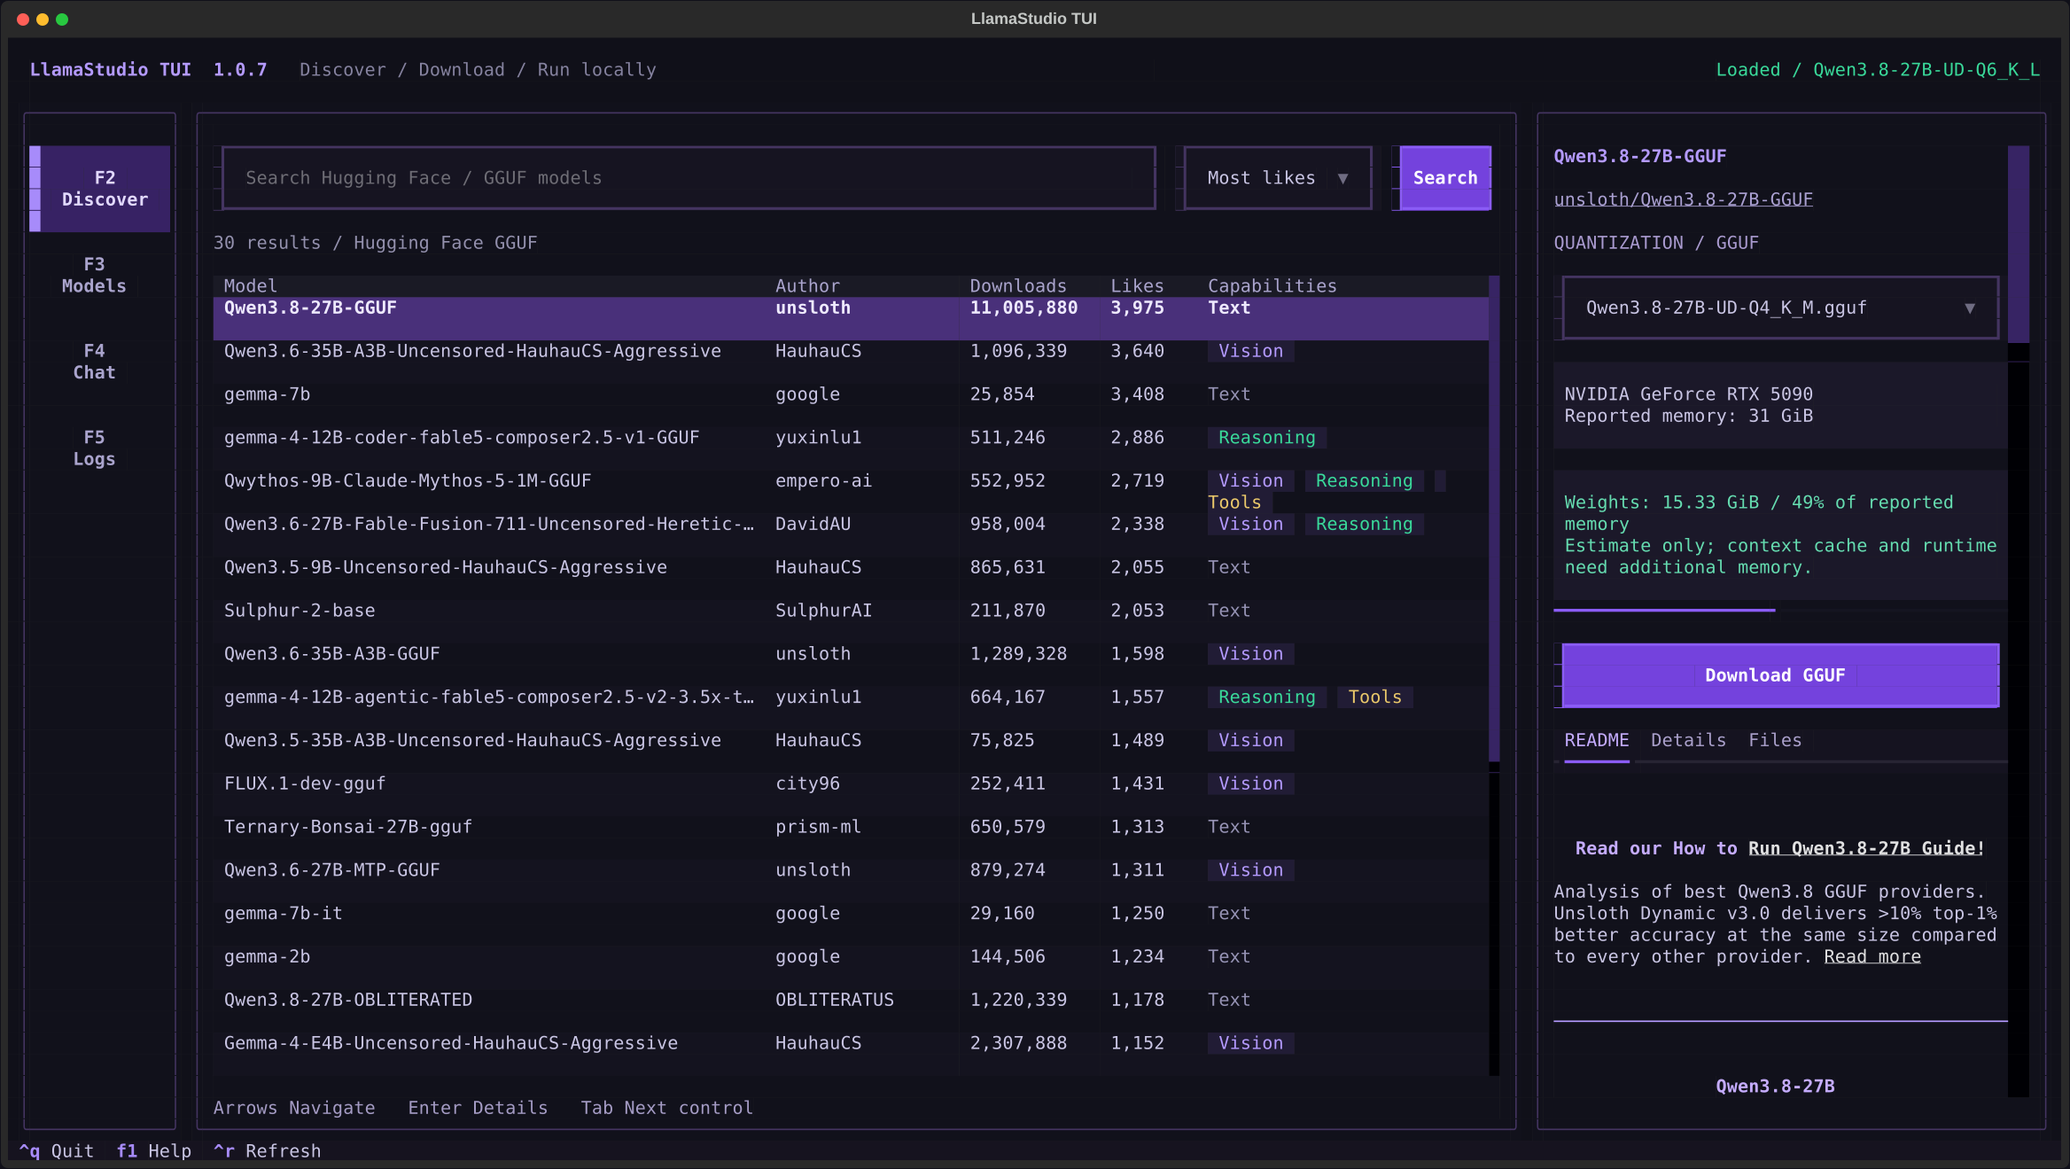
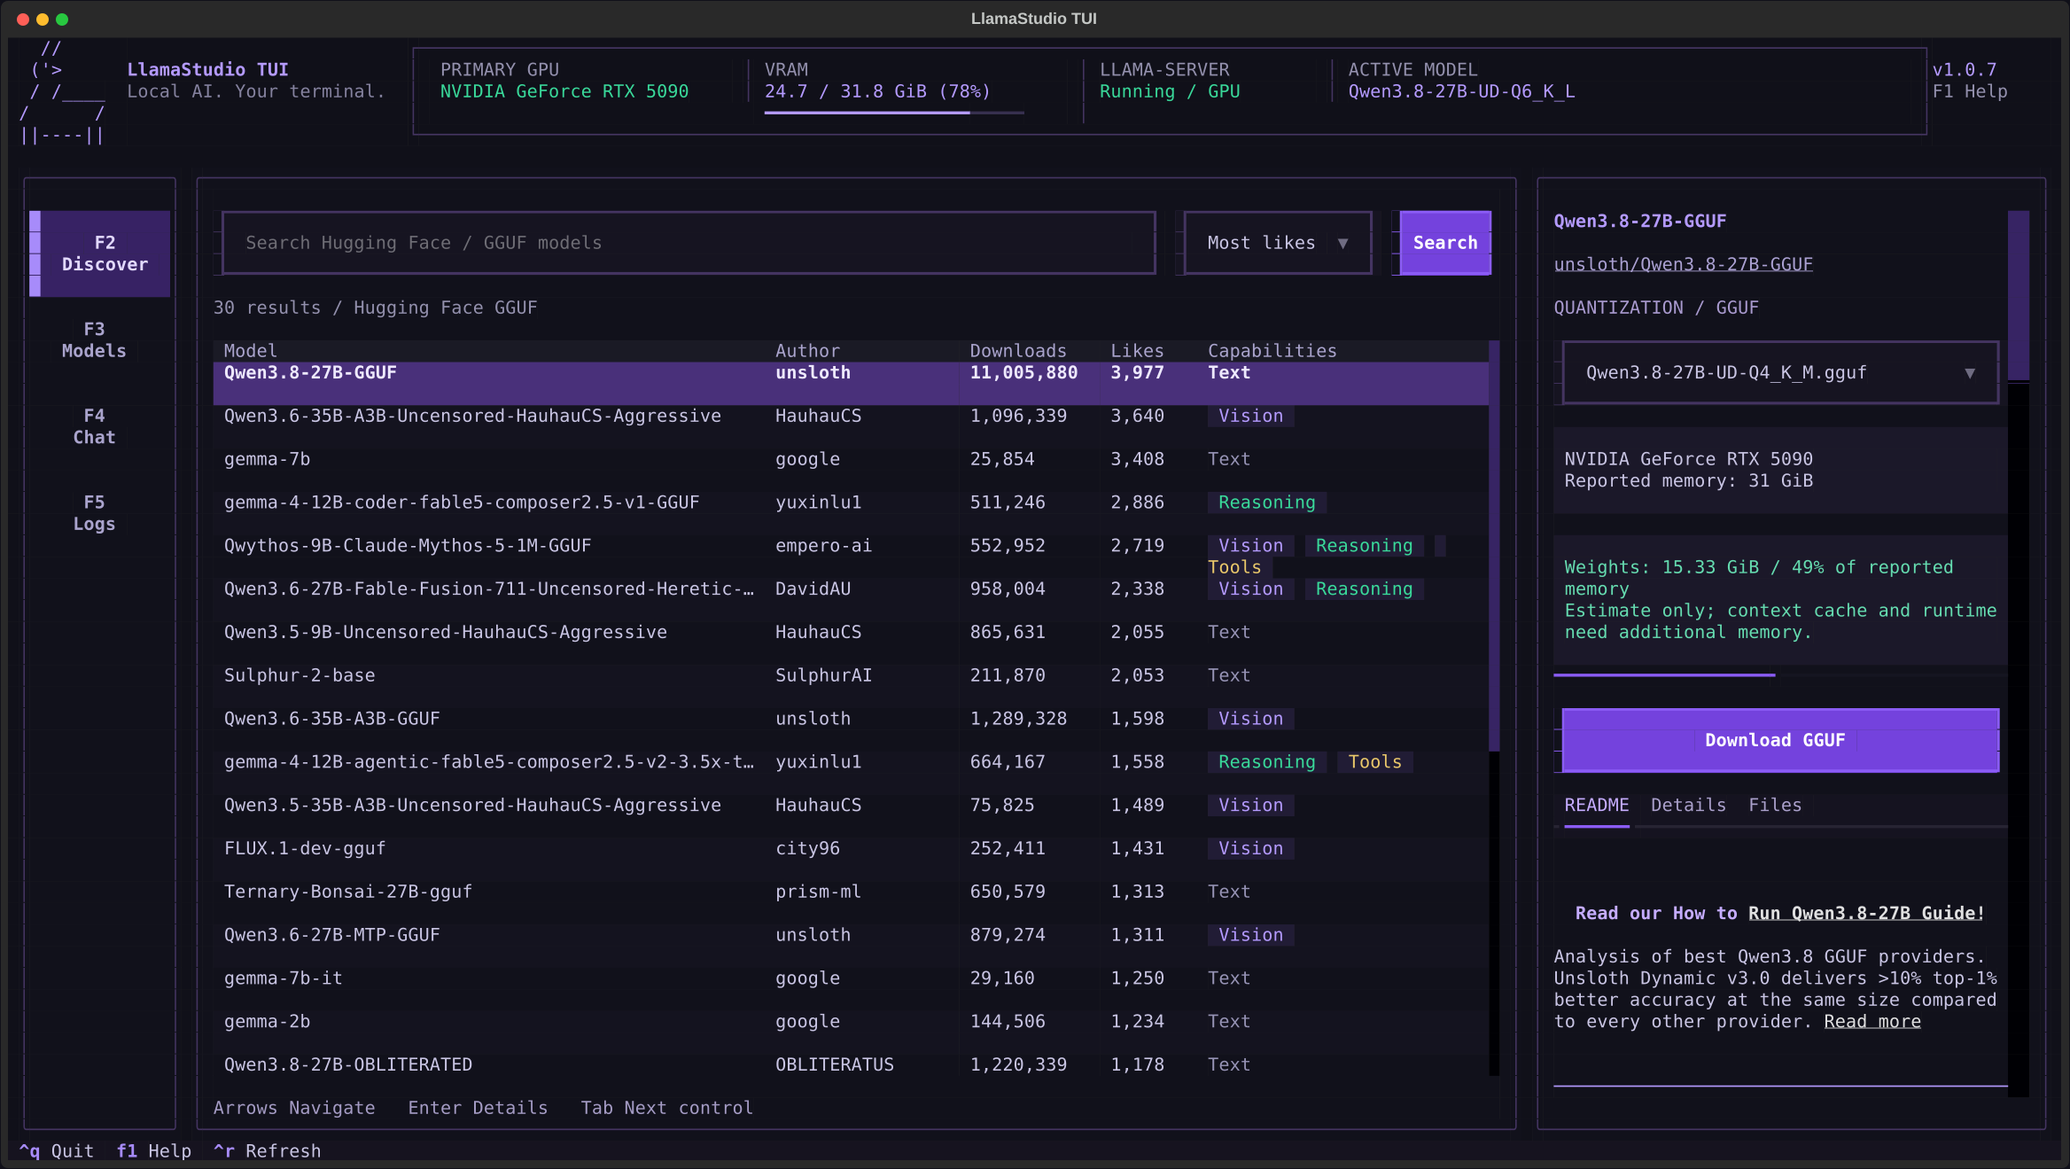
Add responsive llama status header with live GPU and model information

diff --git a/app/tui/header.py b/app/tui/header.py
@@ -1,0 +1,121 @@
+"""Responsive terminal branding and truthful, device-wide GPU telemetry."""
+
+from __future__ import annotations
+
+from importlib.metadata import version
+from math import isfinite
+
+from rich.text import Text
+from textual.app import ComposeResult
+from textual.containers import Horizontal, Vertical
+from textual.widgets import Static
+
+PURPLE = "#b49aff"
+GREEN = "#39d99a"
+MUTED = "#9390ad"
+YELLOW = "#eac86a"
+
+# Plain ASCII: no emoji-width surprises or Nerd Font dependency over SSH.
+LLAMA = "  //\n ('>\n / /____\n/      /\n||----||"
+
+
+def measurement(value: object) -> float | None:
+    if isinstance(value, (int, float)) and not isinstance(value, bool) and isfinite(value):
+        return float(value)
+    return None
+
+
+class StudioHeader(Vertical):
+    def compose(self) -> ComposeResult:
+        with Horizontal(id="header-full"):
+            with Horizontal(id="identity"):
+                yield Static(Text(LLAMA, style=PURPLE), id="llama")
+                with Vertical(id="wordmark"):
+                    yield Static("LlamaStudio TUI", id="brand")
+                    yield Static("Local AI. Your terminal.", id="tagline")
+            with Horizontal(id="telemetry"):
+                with Vertical(id="gpu-stat", classes="header-stat"):
+                    yield Static("PRIMARY GPU", classes="stat-label")
+                    yield Static("Detecting...", id="gpu-name")
+                with Vertical(id="memory-stat", classes="header-stat"):
+                    yield Static("VRAM", classes="stat-label", id="memory-label")
+                    yield Static("Awaiting telemetry", id="memory-value")
+                    yield Static("", id="memory-bar")
+                with Vertical(id="server-stat", classes="header-stat"):
+                    yield Static("LLAMA-SERVER", classes="stat-label")
+                    yield Static("Connecting...", id="connection")
+                with Vertical(id="model-stat", classes="header-stat"):
+                    yield Static("ACTIVE MODEL", classes="stat-label")
+                    yield Static("Connecting...", id="active-model")
+            with Vertical(id="header-meta"):
+                yield Static(f"v{version('llamastudio')}", id="header-version")
+                yield Static("F1 Help", id="header-help")
+        yield Static("LlamaStudio TUI / Connecting...", id="header-summary")
+
+    def update_status(self, status: dict, gpu: dict, *, connected: bool = True) -> None:
+        name = str(gpu.get("name") or "Unavailable")
+        total = measurement(gpu.get("total_vram"))
+        used = measurement(gpu.get("used_vram"))
+        # Older servers only expose capacity. Never infer usage from model size.
+        if "total_vram" not in gpu:
+            total = measurement(gpu.get("vram"))
+        if total is not None and total <= 0:
+            total = None
+        if total is None or used is None or not 0 <= used <= total:
+            used = None
+        unified = gpu.get("memory_kind") == "unified"
+        memory_label = "UNIFIED MEMORY" if unified else "VRAM"
+        if total is not None and used is not None:
+            fraction = used / total
+            memory = f"{used:.1f} / {total:.1f} GiB ({fraction:.0%})"
+            filled = round(fraction * 24)
+            bar = Text("━" * filled, style=PURPLE)
+            bar.append("━" * (24 - filled), style="#37304f")
+        else:
+            memory = f"{total:.1f} GiB / usage N/A" if total is not None else "Unavailable"
+            bar = Text("")
+
+        params = status.get("current_params") or {}
+        cpu = params.get("cpu_mode") or params.get("gpu_layers") == 0
+        mode = "CPU" if cpu else "GPU" if params.get("gpu_layers") is not None else ""
+        if not connected:
+            state, color, model = "Backend unavailable", YELLOW, "Unavailable"
+        elif status.get("is_loading"):
+            state, color = "Loading...", YELLOW
+            model = str(status.get("current_model_name") or "Loading model...")
+        elif status.get("running"):
+            state, color = "Running" + (f" / {mode}" if mode else ""), GREEN
+            model = str(status.get("current_model_name") or "Loaded model")
+        else:
+            state, color, model = "Stopped", MUTED, "No model loaded"
+
+        self.query_one("#gpu-name", Static).update(Text(name, style=GREEN if gpu else MUTED))
+        self.query_one("#gpu-name").tooltip = f"Primary detected device: {name}"
+        self.query_one("#memory-label", Static).update(memory_label)
+        self.query_one("#memory-value", Static).update(Text(memory, style=PURPLE))
+        self.query_one("#memory-bar", Static).update(bar)
+        self.query_one("#memory-stat").tooltip = (
+            "Shared system memory capacity; GPU usage is not reported."
+            if unified
+            else "Device-wide memory usage, including other applications. Refreshed every 3 seconds."
+        )
+        self.query_one("#connection", Static).update(Text(state, style=color))
+        self.query_one("#active-model", Static).update(Text(model, style=PURPLE))
+        self.query_one("#active-model").tooltip = model
+
+        # Compact terminals keep the model, device, memory, and server state,
+        # without the art or card borders taking away working space.
+        summary = Text("LlamaStudio TUI", style=f"bold {PURPLE}")
+        summary.append("  /  ", style=MUTED)
+        summary.append(model, style=PURPLE)
+        summary.truncate(max(1, self.size.width), overflow="ellipsis")
+        summary.append("\n")
+        short_name = name.removeprefix("NVIDIA GeForce ")
+        device = Text(short_name, style=GREEN if gpu else MUTED)
+        device.truncate(
+            max(8, self.size.width - len(memory) - len(state) - 12), overflow="ellipsis"
+        )
+        summary.append_text(device)
+        summary.append(f"  |  {'RAM' if unified else 'VRAM'} {memory}  |  ", style=MUTED)
+        summary.append(state, style=color)
+        self.query_one("#header-summary", Static).update(summary)

diff --git a/app/tui/application.py b/app/tui/application.py
@@ -3,8 +3,6 @@
 from __future__ import annotations
 
 import asyncio
-import time
-from importlib.metadata import version
 from typing import ClassVar
 from urllib.parse import urljoin, urlparse
 
@@ -14,11 +12,12 @@ from textual.app import App, ComposeResult
 from textual.binding import Binding
 from textual.containers import Horizontal, Vertical
 from textual.theme import Theme
-from textual.widgets import Button, ContentSwitcher, Footer, Label, Markdown, ProgressBar, Static
+from textual.widgets import Button, ContentSwitcher, Footer, Markdown, ProgressBar, Static
 
 from .chat import ChatView
 from .client import APIError, StudioClient
 from .discover import DiscoverView
+from .header import StudioHeader
 from .logs import LogsView
 from .models import ModelsView
 from .widgets import Confirm, Help, StudioView
@@ -51,7 +50,7 @@ class StudioApp(App[None]):
         self.gpu: dict = {}
         self.download_active = False
         self._polling = False
-        self._gpu_updated = 0.0
+        self.connected = False
         self._last_download_state = "idle"
         self._views: dict[str, StudioView] = {}
         self.register_theme(
@@ -73,10 +72,7 @@ class StudioApp(App[None]):
         self.theme = "llamastudio"
 
     def compose(self) -> ComposeResult:
-        with Horizontal(id="masthead"):
-            yield Label(f"LlamaStudio TUI  {version('llamastudio')}", id="brand")
-            yield Static("Discover / Download / Run locally", id="tagline")
-            yield Static("Connecting...", id="connection")
+        yield StudioHeader(id="masthead")
         with Horizontal(id="workspace"):
             with Vertical(id="navigation"):
                 yield Button("F2 Discover", id="nav-discover", classes="nav-button")
@@ -116,19 +112,18 @@ class StudioApp(App[None]):
             return
         self._polling = True
         try:
-            self.server_status = await self.client.get("/api/server/status")
-            name = self.server_status.get("current_model_name")
-            state = (
-                "Loading model..."
-                if self.server_status.get("is_loading")
-                else f"Loaded / {name}"
-                if self.server_status.get("running")
-                else "Online / no model loaded"
-            )
-            self.query_one("#connection", Static).update(Text(state, style="#39d99a"))
-            if time.monotonic() - self._gpu_updated > 30:
+            try:
+                self.server_status = await self.client.get("/api/server/status")
+                self.connected = True
+            except APIError:
+                self.connected = False
+                self.server_status = {}
+                self.gpu = {}
+                return
+            try:
                 self.gpu = await self.client.get("/api/gpu")
-                self._gpu_updated = time.monotonic()
+            except APIError:
+                self.gpu = {}
             data = await self.client.get("/api/models/download/active")
             self.download_active = bool(data.get("active"))
             progress = data.get("progress") or {}
@@ -158,12 +153,12 @@ class StudioApp(App[None]):
                     self.notify("Download cancelled. Partial data is retained for resume.")
             self._last_download_state = state
         except APIError:
-            self.query_one("#connection", Static).update(
-                Text("Backend unavailable / retrying...", style="#eac86a")
-            )
+            # An unavailable downloads endpoint is not an inference-server outage.
+            pass
         finally:
             self._polling = False
-            if self._views:
+            self.update_header()
+            if self.is_running and self._views:
                 self._views["discover"].update_memory()
                 self._views["models"].update_status()
 
@@ -180,10 +175,24 @@ class StudioApp(App[None]):
         self.screen_stack[0].set_class(
             (height if height is not None else self.size.height) < 30, "short"
         )
+        self.query_one(StudioHeader).set_class(
+            (width if width is not None else self.size.width) < 150
+            or (height if height is not None else self.size.height) < 30,
+            "condensed",
+        )
+        self.call_after_refresh(self.update_header)
         for number, name in enumerate(self._views, 2):
             self.query_one(
                 f"#nav-{name}", Button
             ).label = f"F{number}{' ' if compact else chr(10)}{name.title()}"
+
+    def update_header(self) -> None:
+        # A cancelled polling worker can finish while child widgets unmount.
+        if not self.is_running:
+            return
+        self.query_one(StudioHeader).update_status(
+            self.server_status, self.gpu, connected=self.connected
+        )
 
     @on(Button.Pressed, ".nav-button")
     def navigate(self, event: Button.Pressed) -> None:

diff --git a/tests/test_tui.py b/tests/test_tui.py
@@ -45,7 +45,10 @@ class Backend:
             "running": True,
             "current_model": "/models/tiny.gguf",
             "current_model_name": "Tiny Q4_K_M",
+            "current_params": {"gpu_layers": 42, "cpu_mode": False},
         }
+        self.gpu = {"name": "Test GPU", "vram": 24, "total_vram": 24, "used_vram": 6}
+        self.gpu_available = True
         self.progress = {"status": "idle"}
         self.conversations = {
             "saved": {
@@ -75,7 +78,9 @@ class Backend:
         if path == "/api/server/status":
             data = self.status
         elif path == "/api/gpu":
-            data = {"name": "Test GPU", "vram": 24}
+            if not self.gpu_available:
+                return httpx.Response(503, json={"detail": "Telemetry unavailable"})
+            data = self.gpu
         elif path == "/api/models/search":
             data = {
                 "models": [
@@ -377,7 +382,61 @@ class TestTUI(unittest.IsolatedAsyncioTestCase):
             self.assertIn("unavailable", str(self.app.query_one("#connection", Static).render()))
             self.backend.online = True
             await self.app.poll_status()
-            self.assertIn("Loaded", str(self.app.query_one("#connection", Static).render()))
+            self.assertIn("Running", str(self.app.query_one("#connection", Static).render()))
+
+    async def test_header_telemetry_refresh_resize_and_cpu_mode(self):
+        async with self.app.run_test(size=(190, 52)) as pilot:
+            await self.settle(pilot)
+            self.assertTrue(self.app.query_one("#header-full").display)
+            self.assertIn("Test GPU", str(self.app.query_one("#gpu-name", Static).render()))
+            self.assertIn("6.0 / 24.0 GiB (25%)", str(self.app.query_one("#memory-value").render()))
+            self.assertIn("Running / GPU", str(self.app.query_one("#connection").render()))
+            self.assertIn("Tiny Q4_K_M", str(self.app.query_one("#active-model").render()))
+            bar = self.app.query_one("#memory-bar")
+            self.assertGreater(bar.region.height, 0)
+            self.assertLessEqual(
+                bar.region.bottom, self.app.query_one("#telemetry").content_region.bottom
+            )
+            self.backend.gpu["used_vram"] = 12
+            self.backend.status["current_params"]["cpu_mode"] = True
+            await self.app.poll_status()
+            self.assertIn(
+                "12.0 / 24.0 GiB (50%)", str(self.app.query_one("#memory-value").render())
+            )
+            self.assertIn("Running / CPU", str(self.app.query_one("#connection").render()))
+            await pilot.resize_terminal(80, 24)
+            await pilot.pause()
+            self.assertFalse(self.app.query_one("#header-full").display)
+            summary = str(self.app.query_one("#header-summary").render())
+            for label in ("Tiny Q4_K_M", "Test GPU", "50%", "Running / CPU"):
+                self.assertIn(label, summary)
+            self.assertEqual(self.app.query_one("#masthead").region.height, 3)
+            await pilot.resize_terminal(190, 52)
+            await pilot.pause()
+            self.assertTrue(self.app.query_one("#header-full").display)
+
+    async def test_header_loading_stopped_offline_and_unavailable_telemetry(self):
+        async with self.app.run_test(size=(190, 52)) as pilot:
+            await self.settle(pilot)
+            self.backend.gpu = {"name": "Apple M3", "vram": 32, "memory_kind": "unified"}
+            await self.app.poll_status()
+            self.assertIn("UNIFIED", str(self.app.query_one("#memory-label").render()))
+            self.assertIn("usage N/A", str(self.app.query_one("#memory-value").render()))
+            self.backend.gpu_available = False
+            await self.app.poll_status()
+            self.assertIn("Running", str(self.app.query_one("#connection").render()))
+            self.assertIn("Unavailable", str(self.app.query_one("#memory-value").render()))
+            self.backend.status["is_loading"] = True
+            await self.app.poll_status()
+            self.assertIn("Loading", str(self.app.query_one("#connection").render()))
+            self.backend.status.update(is_loading=False, running=False)
+            await self.app.poll_status()
+            self.assertIn("Stopped", str(self.app.query_one("#connection").render()))
+            self.assertIn("No model loaded", str(self.app.query_one("#active-model").render()))
+            self.backend.online = False
+            await self.app.poll_status()
+            self.assertIn("unavailable", str(self.app.query_one("#connection").render()))
+            self.assertIn("Unavailable", str(self.app.query_one("#active-model").render()))
 
     async def test_resize_preserves_model_selection_and_unsaved_settings(self):
         self.backend.models.append({

diff --git a/tests/test_tui_live.py b/tests/test_tui_live.py
@@ -90,3 +90,49 @@ class TestLiveTUI(unittest.IsolatedAsyncioTestCase):
             if previous_id:
                 await client.post(f"/api/chat/switch/{previous_id}")
             await client.close()
+
+
+@unittest.skipUnless(
+    os.environ.get("RUN_TUI_VISUAL") == "1", "Requires a running backend and network access"
+)
+class TestLiveVisualTUI(unittest.IsolatedAsyncioTestCase):
+    """Read-only UI review: live telemetry, open dropdowns, and terminal resizing.
+
+    RUN_TUI_VISUAL=1 python -m pytest tests/test_tui_live.py -k Visual -q
+    Does not load/unload a model or create/switch a conversation.
+    """
+
+    async def test_live_header_and_dropdowns(self):
+        app = StudioApp(API_BASE_URL)
+        async with app.run_test(size=(190, 52)) as pilot:
+            for _ in range(3):
+                await asyncio.wait_for(app.workers.wait_for_complete(), timeout=60)
+                await pilot.pause()
+            self.assertTrue(app.connected)
+            self.assertTrue(app.gpu.get("name"))
+
+            def capture(name):
+                target = check_path_safe(f".runtime/tui/{name}.svg")
+                target.parent.mkdir(parents=True, exist_ok=True)
+                app.save_screenshot(filename=str(target))
+
+            capture("header-live")
+            await pilot.click("#hub-sort")
+            await pilot.pause()
+            overlay = app.query_one("#hub-sort SelectOverlay")
+            text = "\n".join(
+                overlay.render_line(y).text for y in range(overlay.scrollable_content_region.height)
+            )
+            for label in ("Most likes", "Downloads", "Updated"):
+                self.assertIn(label, text)
+            capture("dropdown-live")
+            await pilot.press("escape")
+            await pilot.resize_terminal(120, 36)
+            await pilot.pause()
+            capture("header-medium-live")
+            await pilot.resize_terminal(80, 24)
+            await pilot.pause()
+            capture("header-small-live")
+            await pilot.click("#hub-sort")
+            await pilot.pause()
+            capture("dropdown-small-live")

diff --git a/README.md b/README.md
@@ -254,6 +254,12 @@ load settings, load/eject, and confirmed deletion. Chat supports multiline text,
 saved conversations, streamed Markdown, collapsible reasoning, and tool activity.
 Logs tails the application or inference server, with filtering and follow control.
 
+The header adds a little ASCII llama, the primary GPU, live device-wide VRAM
+usage, inference state (including CPU/GPU mode), and the active model. NVIDIA
+memory usage refreshes every three seconds; unsupported telemetry is shown as
+unavailable, not zero. Apple unified memory is labeled separately. Narrow or
+short terminals use a two-line status summary instead of the full header.
+
 Use F2–F5 to switch sections, Tab/Shift+Tab to move between controls, arrows and
 Enter to select, and F1 for help. In chat, Enter inserts a newline and Ctrl+S sends.
 Ctrl+R refreshes; Ctrl+Q quits. Every workflow also has mouse controls. In terminal
@@ -271,8 +277,8 @@ The backend's filesystem and GPU are the ones shown in the TUI.
 
 This first version handles text chat; media input remains in the web app. Split
 GGUF shards are identified but not offered as individual model downloads: fetch
-the complete set from the linked Hub repository. Memory bars compare GGUF weight
-bytes with reported GPU/unified memory, **not** guaranteed load capacity; context
+the complete set from the linked Hub repository. The Discover memory bar compares
+GGUF weight bytes with reported GPU/unified memory, **not** guaranteed load capacity; context
 cache and runtime allocations need additional memory. The backend still shares
 one active conversation, so avoid sending simultaneously from the web app and TUI.
 
